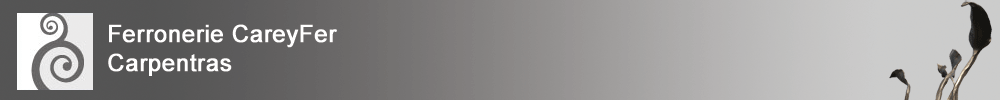
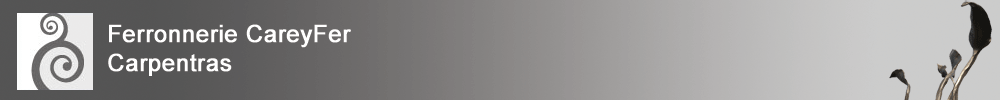
Fix typo on title.

Changed region(s): [[0.186, 0.24, 0.372, 0.48]]

diff --git a/config/environment.rb b/config/environment.rb
@@ -7,8 +7,8 @@ require File.join(File.dirname(__FILE__), 'boot')
 Rails::Initializer.run do |config|
   CONF = {
     :description => 'Careyfer est un site vitrine promouvant le travail en
-      ferronerie réalisé par Jean-Paul Carey',
-    :keywords => %w(jean-paul carey ferronerie fer careyfer forge manuel)
+      ferronnerie réalisé par Jean-Paul Carey',
+    :keywords => %w(jean-paul carey ferronnerie fer careyfer forge manuel)
   }
 
   config.time_zone = 'UTC'
